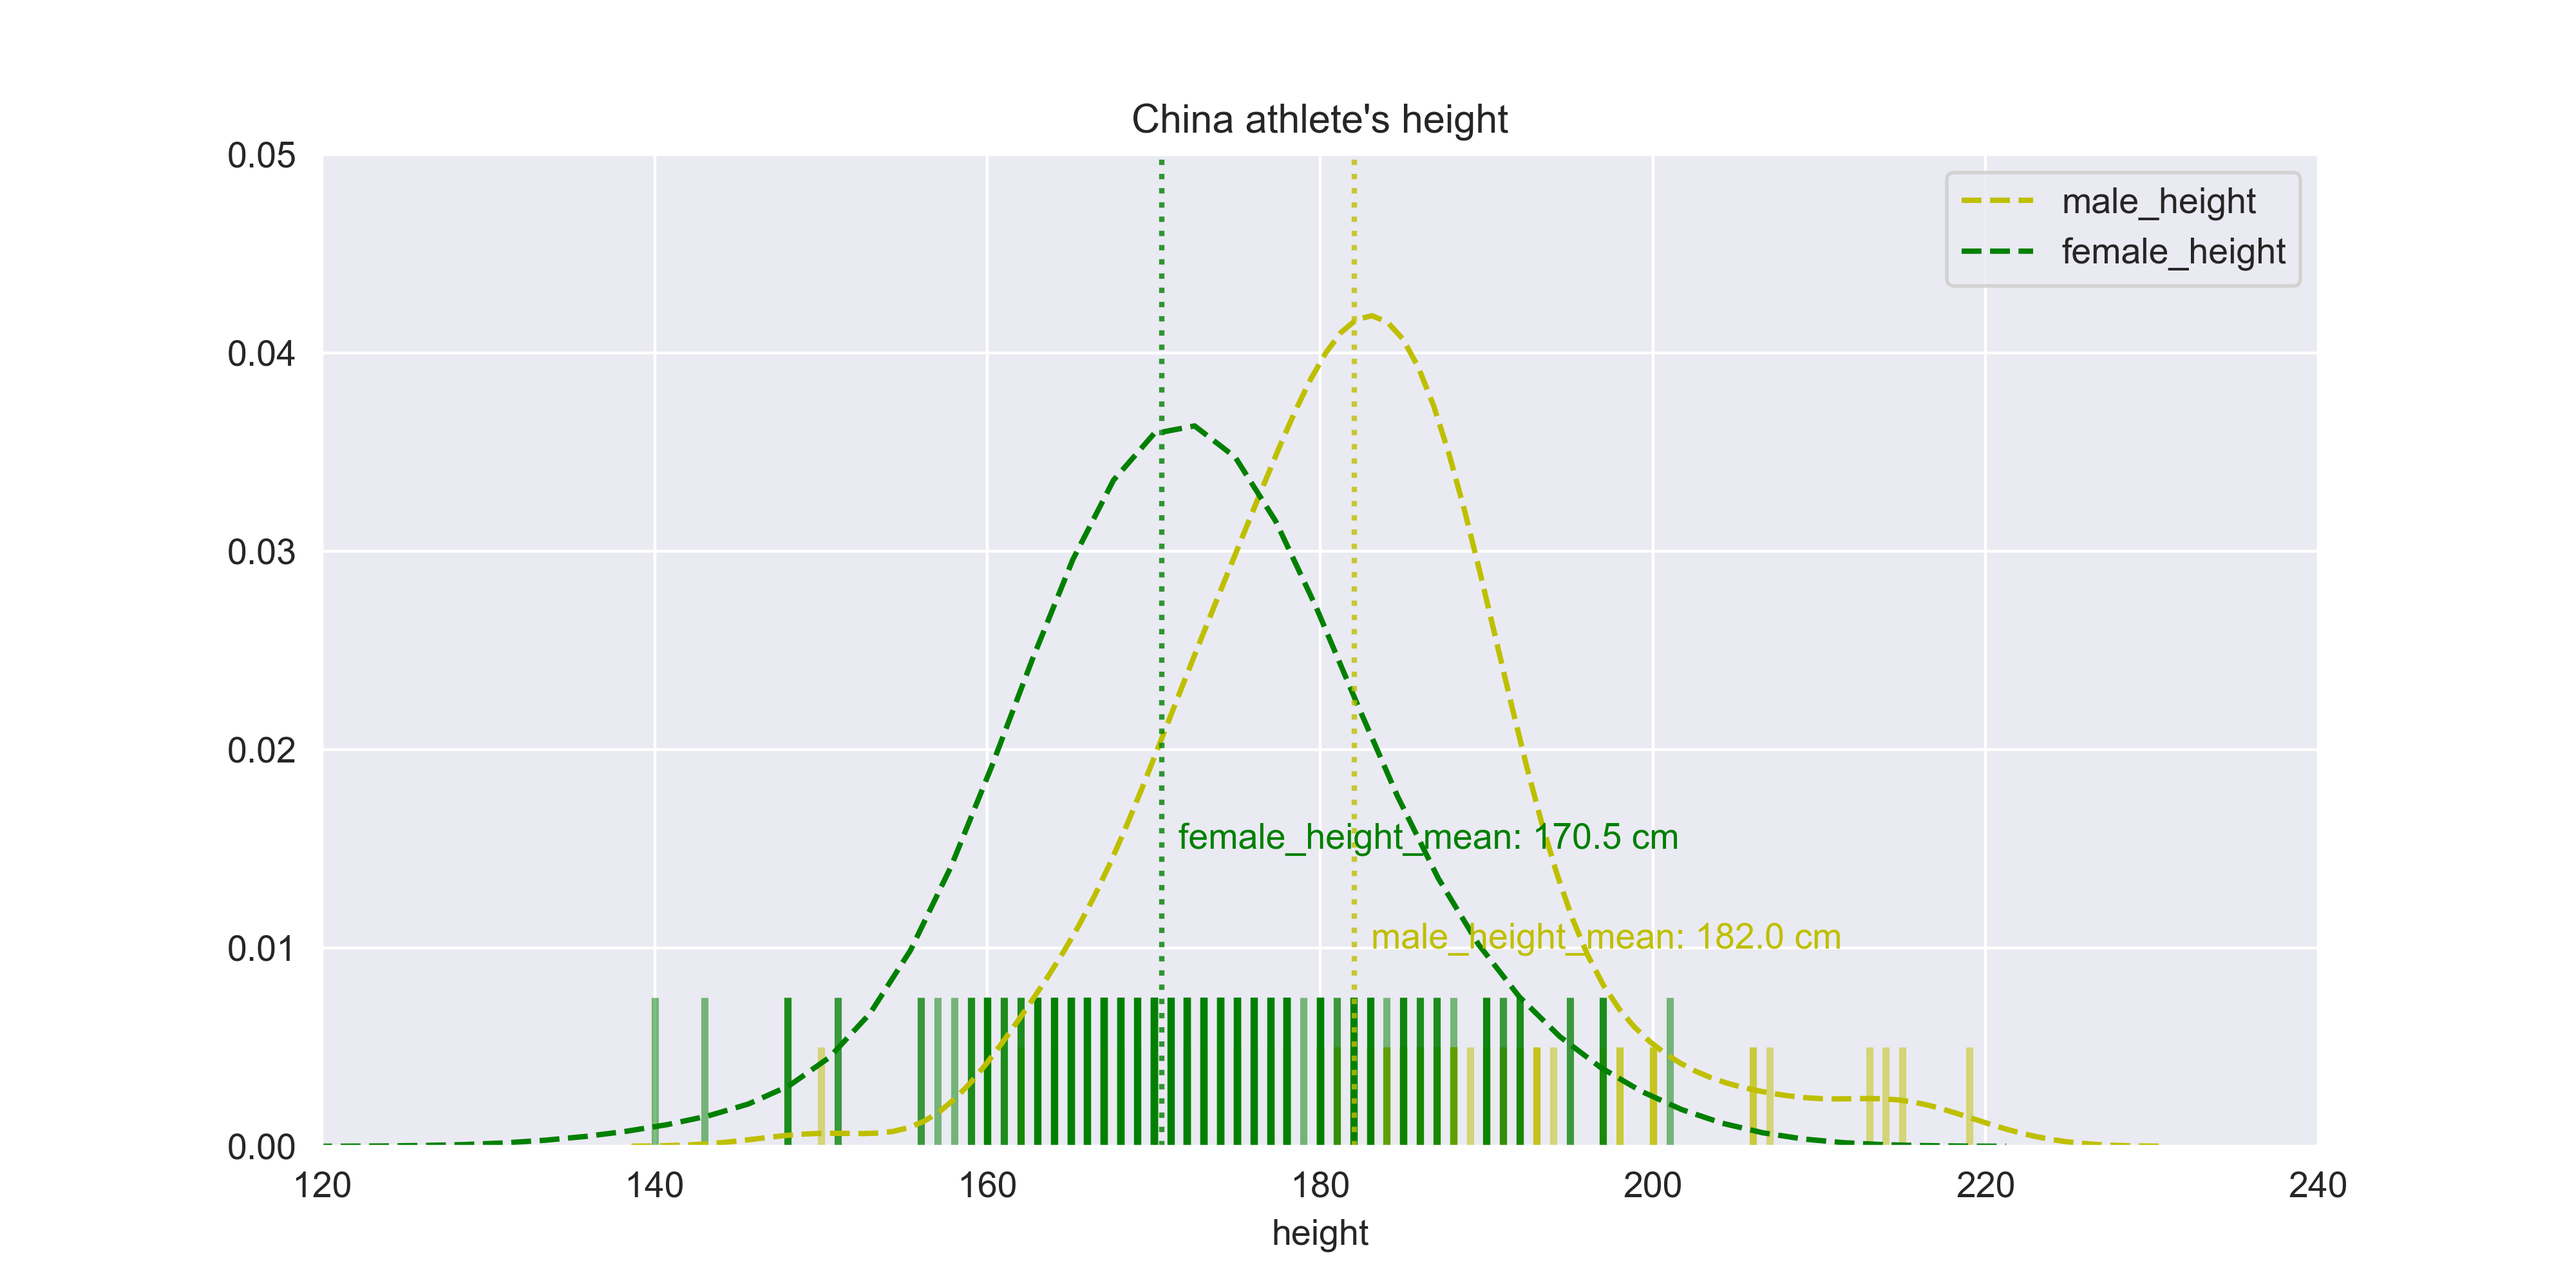
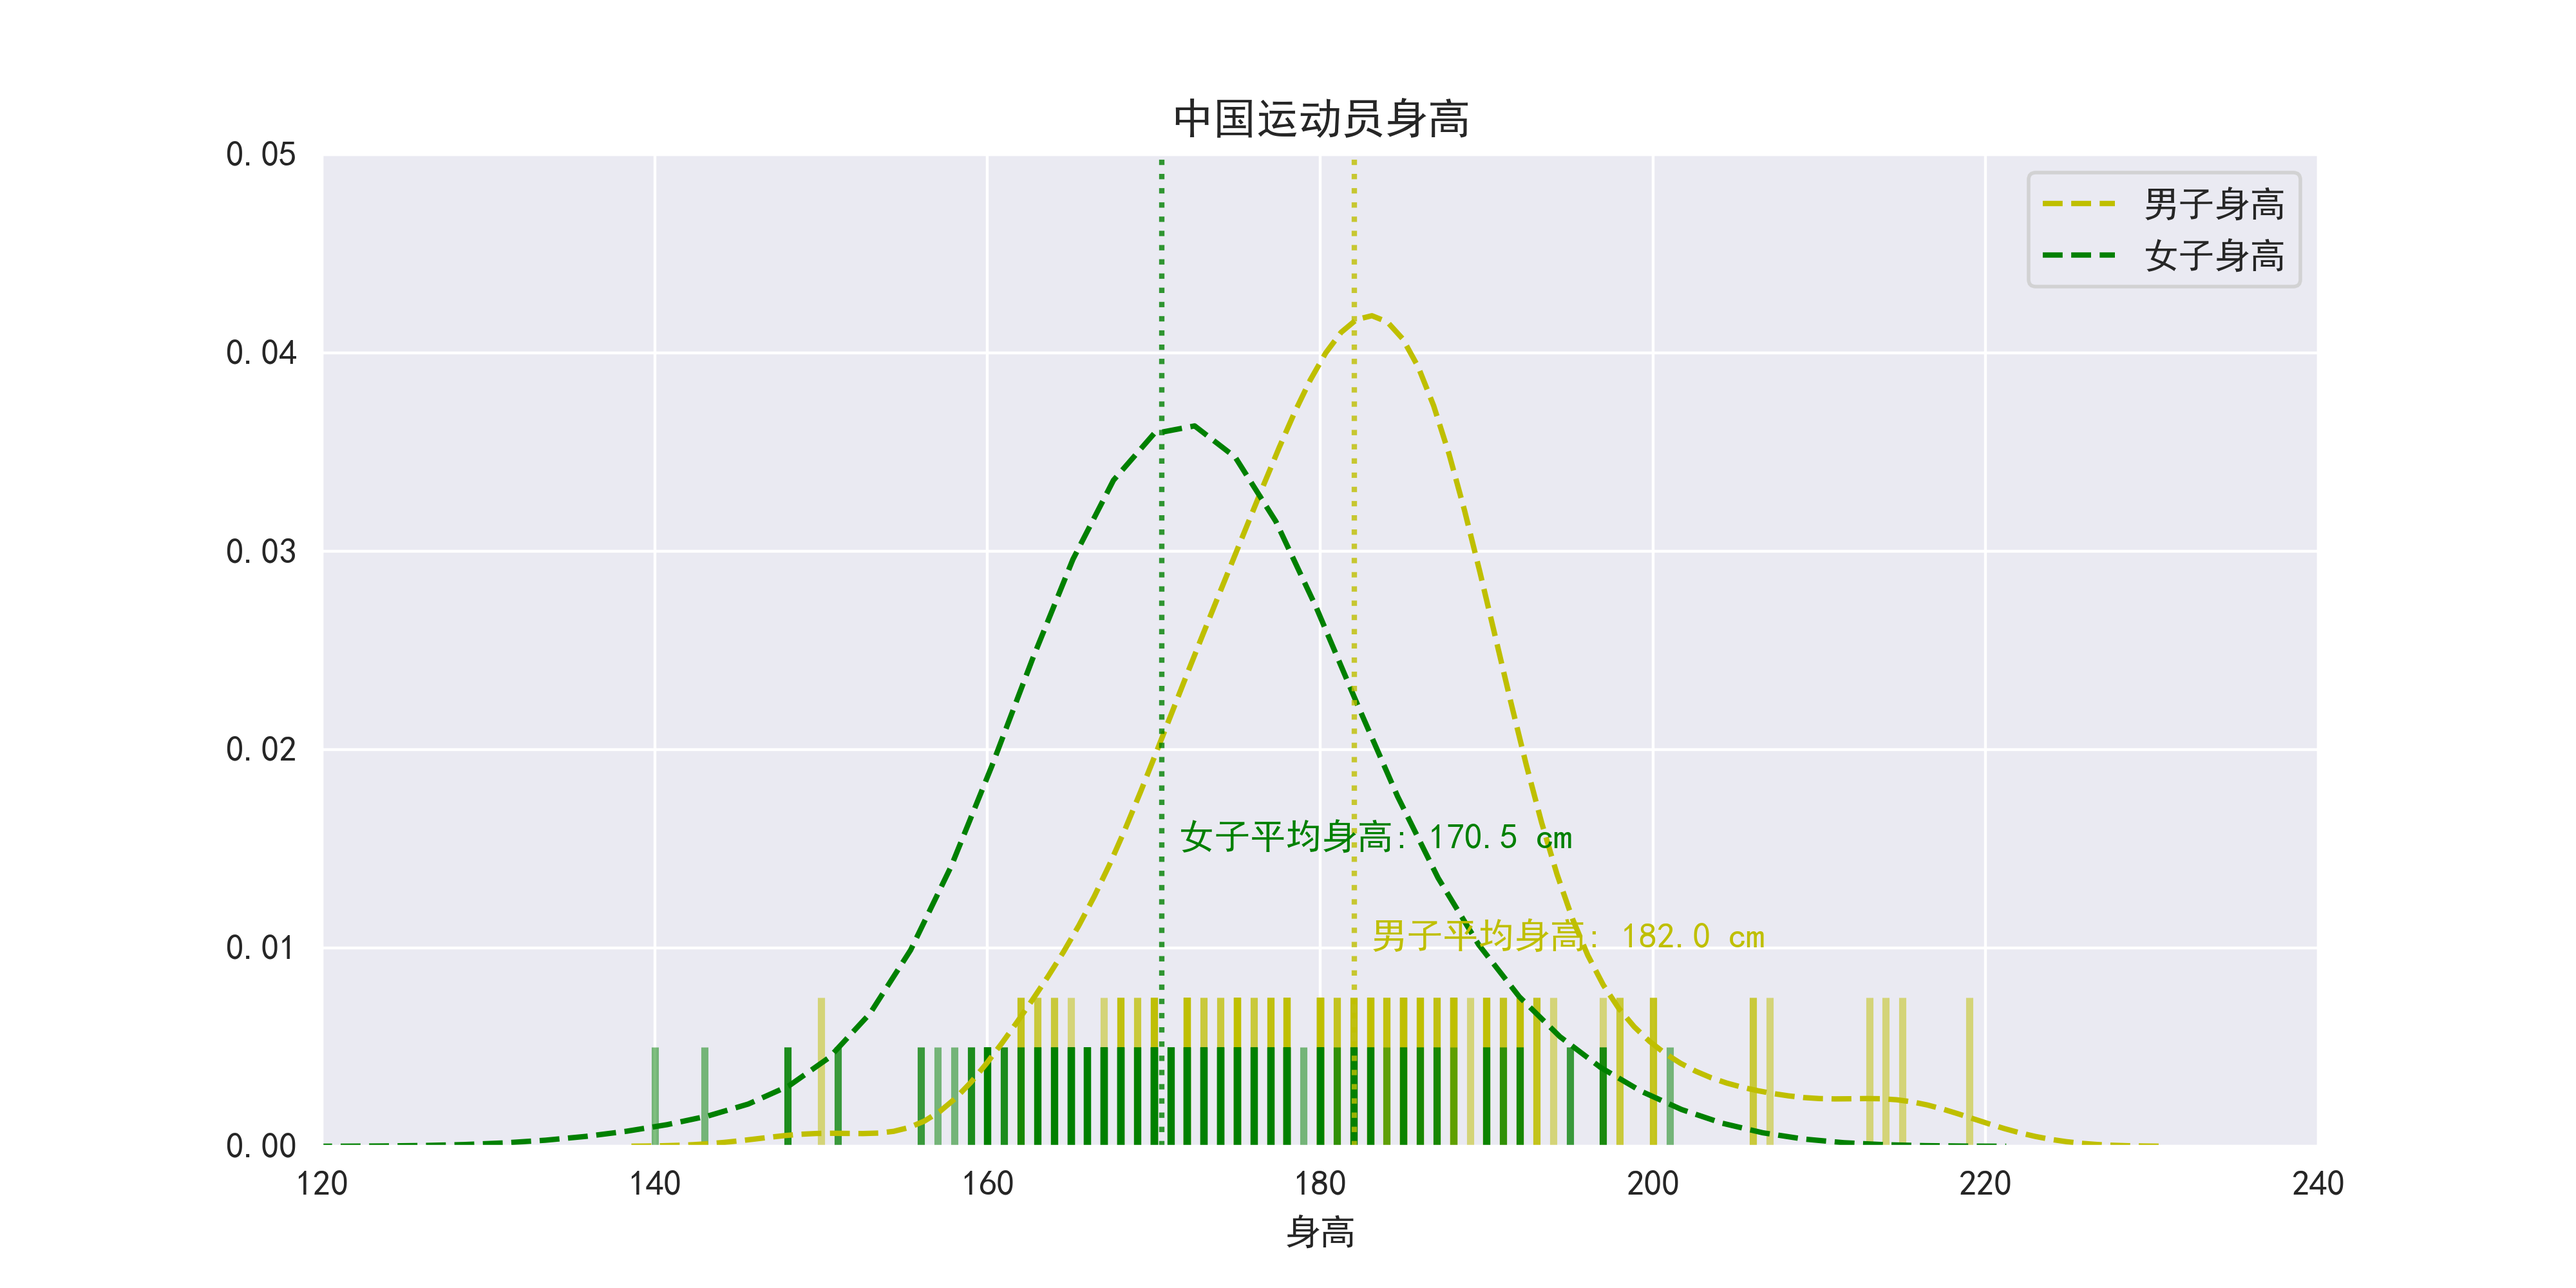
pccode21

diff --git a/src/data/seabron_distplot.py b/src/data/seabron_distplot.py
@@ -3,8 +3,16 @@ import pandas as pd  # pandas - 基于Numpy的数据处理工具包
 import matplotlib.pyplot as plt  # matplotlib - Python的绘图工具包
 import seaborn as sns  # seaborn - matplotlib基础上的高级可视化工具包
 import os
+from matplotlib.font_manager import FontProperties
 
 
+sns.set_style('darkgrid', {'font.sans-serif': ['simhei', 'Arial']})
+# 解决Seaborn中文显示问题
+# 设置图表风格
+# Seaborn中有五种可供选择的主题：darkgrid(灰色网格)/whitegrid(白色网格)/dark(黑色)/white(白色)/ticks(十字叉)
+plt.rcParams['font.family'] = ['sans-serif']
+plt.rcParams['font.sans-serif'] = ['SimHei']  # 中文字体设置-黑体
+plt.rcParams['axes.unicode_minus'] = False  # 解决保存图像是负号'-'显示为方块的问题
 os.chdir(r'.\PythonLearn\src\data')  # 创建工作路径
 df = pd.read_excel('中国奥运运动员数据.xlsx', sheet_name='中国队', header=0)
 df_length = len(df)
@@ -18,26 +26,93 @@ data_female = data[data['gender'] == '女']
 hmean_male = data_male['height'].mean()
 hmean_female = data_female['height'].mean()
 plt.figure(figsize=(10, 5))  # 设置画布大小
-sns.set_style('darkgrid')  # 设置图表风格
-# Seaborn中有五种可供选择的主题：darkgrid(灰色网格)/whitegrid(白色网格)/dark(黑色)/white(白色)/ticks(十字叉)
 # 绘制男女高度分布密度图
+"""
+seaborn.distplot(a, bins=None, hist=True, kde=True, rug=False, fit=None, hist_kws=None, kde_kws=None, rug_kws=None, fit_kws=None, color=None, vertical=False, norm_hist=False, axlabel=None, label=None, ax=None)
+参数：a：Series、1维数组或者列表。
+
+观察数据。如果是具有name属性的Series对象，则该名称将用于标记数据轴。
+
+bins：matplotlib hist()的参数，或None。可选参数。
+
+直方图bins（柱）的数目，若填None，则默认使用Freedman-Diaconis规则指定柱的数目。
+
+hist：布尔值，可选参数。
+
+是否绘制（标准化）直方图。
+
+kde：布尔值，可选参数。
+
+是否绘制高斯核密度估计图。
+
+rug：布尔值，可选参数。
+
+是否在横轴上绘制观测值竖线。
+
+fit：随机变量对象，可选参数。
+
+一个带有fit方法的对象，返回一个元组，该元组可以传递给pdf方法一个位置参数，该位置参数遵循一个值的网格用于评估pdf。
+
+{hist, kde, rug, fit}_kws：字典，可选参数。
+
+底层绘图函数的关键字参数。
+
+color：matplotlib color，可选参数。
+
+可以绘制除了拟合曲线之外所有内容的颜色。
+
+vertical：布尔值，可选参数。
+
+如果为True，则观测值在y轴显示。
+
+norm_hist：布尔值，可选参数。
+
+如果为True，则直方图的高度显示密度而不是计数。如果绘制KDE图或拟合密度，则默认为True。
+
+axlabel：字符串，False或者None，可选参数。
+
+横轴的名称。如果为None，将尝试从a.name获取它；如果为False，则不设置标签。
+
+label：字符串，可选参数。
+
+图形相关组成部分的图例标签。
+
+ax：matplotlib axis，可选参数。
+
+若提供该参数，则在参数设定的轴上绘图。
+
+返回值：ax：matplotlib Axes
+
+返回Axes对象以及用于进一步调整的绘图。
+
+另请参见
+
+kdeplot
+
+显示具有核密度估计图的单变量或双变量分布。
+
+rugplot
+
+绘制小的垂直线以显示分布中的每个观测值。
+"""
 sns.distplot(data_male['height'], hist=False, kde=True, rug=True,  # 男生的身高
-            rug_kws={'color': 'y', 'lw': 2, 'alpha': 0.5, 'height': 0.1},  # 设置数据频率分布颜色
+            rug_kws={'color': 'y', 'lw': 2, 'alpha': 0.5, 'height': 0.15},  # 设置数据频率分布颜色
             kde_kws={"color": "y", "lw": 1.5, 'linestyle': '--'},  # 设置密度曲线颜色，线宽，标注、线形
-            label='male_height')  # 设置图例
+            label='男子身高')  # 设置图例
 sns.distplot(data_female['height'], hist=False, kde=True, rug=True,  # 女生的身高
-            rug_kws={'color': 'g', 'lw': 2, 'alpha': 0.5, 'height': 0.15},  # 设置数据频率分布颜色
+            rug_kws={'color': 'g', 'lw': 2, 'alpha': 0.5, 'height': 0.1},  # 设置数据频率分布颜色
             kde_kws={"color": "g", "lw": 1.5, 'linestyle': '--'},  # 设置密度曲线颜色，线宽，标注、线形
-            label='female_height')  # 设置图例
+            label='女子身高')  # 设置图例
 # 绘制运动员平均身高辅助线
 plt.axvline(hmean_male, color='y', linestyle=":", alpha=0.8)
-plt.text(hmean_male+1, 0.01, 'male_height_mean: %.1f cm' % (hmean_male), color='y')
+plt.text(hmean_male+1, 0.01, '男子平均身高: %.1f cm' % (hmean_male), color='y')  # ‘hmean_male+1, 0.01’是X轴和y轴坐标
 plt.axvline(hmean_female, color='g', linestyle=":", alpha=0.8)
-plt.text(hmean_female+1, 0.015, 'female_height_mean: %.1f cm' % (hmean_female), color='g')
+plt.text(hmean_female+1, 0.015, '女子平均身高: %.1f cm' % (hmean_female), color='g')  # ‘hmean_female+1, 0.015’是X轴和y轴坐标
 # 调整图表细节，输出并保存
 plt.xlim([120, 240])  # x轴边界
-plt.ylim([0, 0.05])               # 调整Y轴刻度
-plt.title("China athlete's height", fontsize=11)    # 添加图表名
+plt.ylim([0, 0.05])   # 调整Y轴刻度
+plt.xlabel('身高', fontsize=10)  # 设置x轴标签说明
+plt.title('中国运动员身高', fontsize=12)    # 添加图表名 China athlete's height
 thismanager = plt.get_current_fig_manager()
 thismanager.window.wm_iconbitmap(r'./images/LOGO.ico')
 thismanager.canvas.set_window_title('林旭东的可视化图表')

diff --git a/Learning Website.md b/Learning Website.md
@@ -54,3 +54,7 @@
 2、深度开源 https://www.open-open.com/  <br>
 3、hellogithub https://hellogithub.com/  <br>
 4、开源镜像站 https://mirrors.tuna.tsinghua.edu.cn/  <br>
+
+八、学习文档
+----------------------------
+1、seaborn 0.9 中文文档 https://seaborn.apachecn.org/#/  <br>
